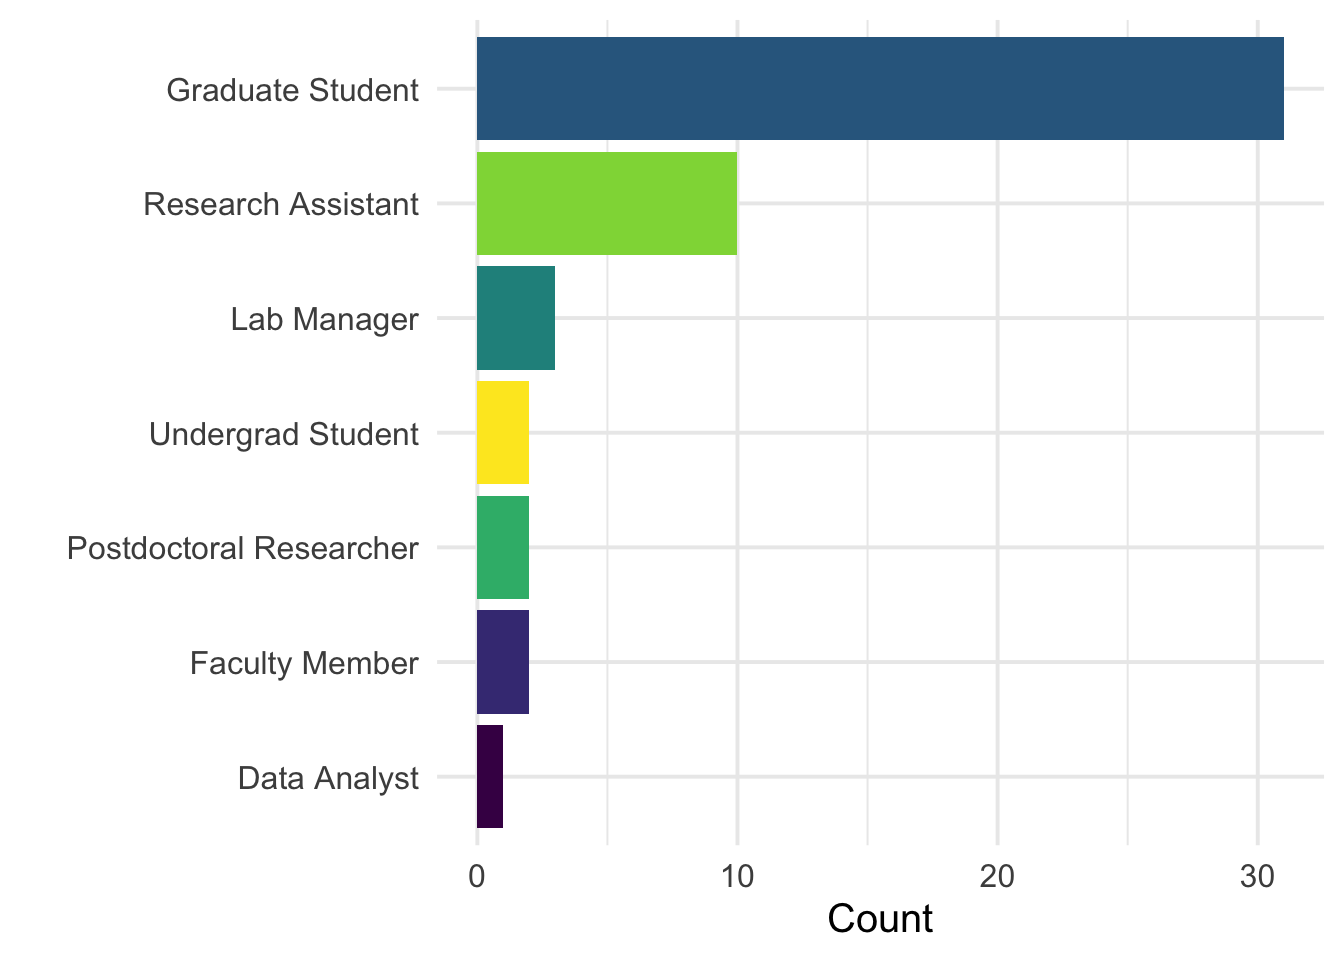
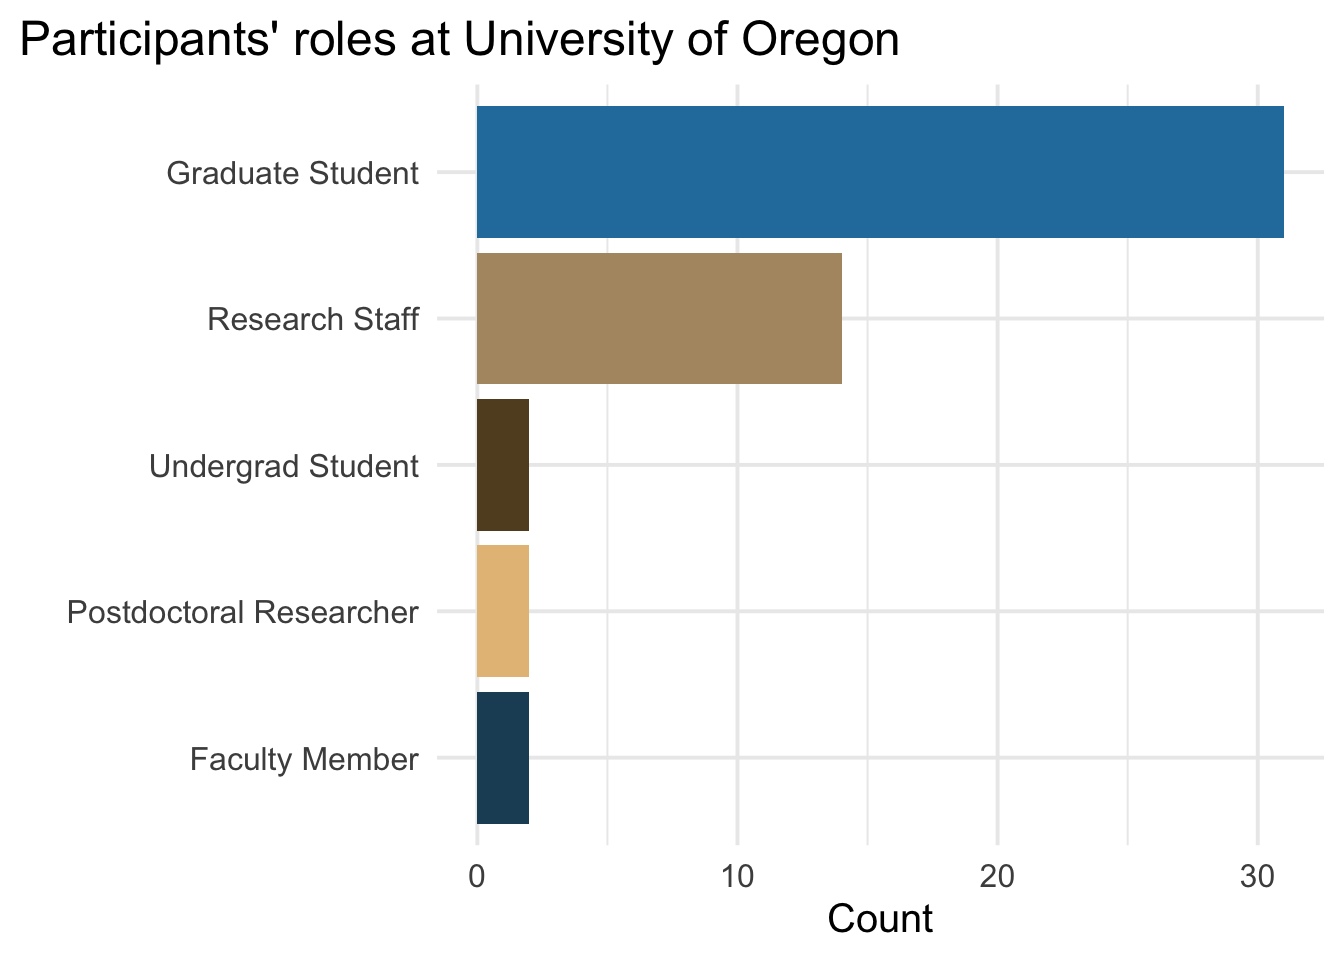
update plot themes + colors

diff --git a/content/post/2020-10-19-teaching-an-r-bootcamp-remotely/index.html b/content/post/2020-10-19-teaching-an-r-bootcamp-remotely/index.html
@@ -28,12 +28,12 @@ codefolding_nobutton: true
 
 <div id="background" class="section level1">
 <h1>Background</h1>
-<p>September 2018</p>
+<p>Back in Fall 2018, the Department of Psychology at the University of Oregon started to offer an introductory R Bootcamp the week before the start of the new academic year. It was my privilege to be able to lead the 3rd Annual UO Psych Bootcamp this year.</p>
 </div>
 <div id="who-attended" class="section level1">
 <h1>Who attended?</h1>
-<pre class="r"><code># suspend authorization so no need for a token
-gs4_deauth()
+<pre class="r"><code># suspend authorization so no need for a token for accessing Google Drive data
+googlesheets4::gs4_deauth()
 
 # import bootcamp registration data 
 registration &lt;- googlesheets4::read_sheet(&quot;https://docs.google.com/spreadsheets/d/1wcGdQU7Vkg3XLvu0mArQx_gcSt0xHztbXmAmnj_tqmE/edit?usp=sharing&quot;)
@@ -44,7 +44,7 @@ plot_data &lt;- registration %&gt;%
   select(position = what_is_your_position_at_uo,
          experience = do_you_have_any_experience_in_r_no_experience_is_required) %&gt;%
   mutate(position = factor(case_when(position %in% c(&quot;Undergraduate&quot;, &quot;Undergraduate student&quot;) ~ &quot;Undergrad Student&quot;, 
-                                     position == &quot;RA&quot; ~ &quot;Research Assistant&quot;,
+                                     position %in% c(&quot;RA&quot;, &quot;Lab Manager&quot;, &quot;Data Analyst&quot;) ~ &quot;Research Staff&quot;,
                               TRUE ~ as.character(position))),
          experience = factor(experience, levels = c(
            &quot;I&#39;ve never heard of it&quot;,
@@ -54,16 +54,18 @@ plot_data &lt;- registration %&gt;%
            &quot;I use it often to analyze data&quot;)))
 
 # plot positions at UO
-theme_set(theme_minimal(base_size = 15))
+theme_set(theme_minimal(base_size = 15)) 
+theme_update(legend.position = &quot;none&quot;, 
+          plot.title.position = &quot;plot&quot;,
+          panel.grid.minor.y = element_blank())
 
 plot_data %&gt;% 
   count(position) %&gt;% 
   ggplot(aes(fct_reorder(position, n), n, fill = position)) + 
   geom_col() +
   coord_flip() + 
-  scale_fill_viridis_d() + 
-  labs(x = &quot;&quot;, y = &quot;Count&quot;) + 
-  theme(legend.position = &quot;none&quot;)</code></pre>
+  scale_fill_manual(values = get_pal(&quot;Kotare&quot;)) + 
+  labs(x = &quot;&quot;, y = &quot;Count&quot;, title = &quot;Participants&#39; roles at University of Oregon&quot;)</code></pre>
 <p><img src="/post/2020-10-19-teaching-an-r-bootcamp-remotely/index_files/figure-html/unnamed-chunk-2-1.png" width="672" /></p>
 <p>Prior experience</p>
 <pre class="r"><code># plot prior experience 
@@ -72,9 +74,8 @@ plot_data %&gt;%
   ggplot(aes(experience, n, fill = experience)) + 
   geom_col() +
   coord_flip() + 
-  scale_fill_viridis_d() + 
-  labs(x = &quot;&quot;, y = &quot;Count&quot;) + 
-  theme(legend.position = &quot;none&quot;)</code></pre>
+  scale_fill_manual(values = get_pal(&quot;Kotare&quot;))  + 
+  labs(x = &quot;&quot;, y = &quot;Count&quot;, title = &quot;Participants&#39; prior experience with R&quot;)</code></pre>
 <p><img src="/post/2020-10-19-teaching-an-r-bootcamp-remotely/index_files/figure-html/unnamed-chunk-3-1.png" width="672" /></p>
 </div>
 <div id="logistics" class="section level1">
